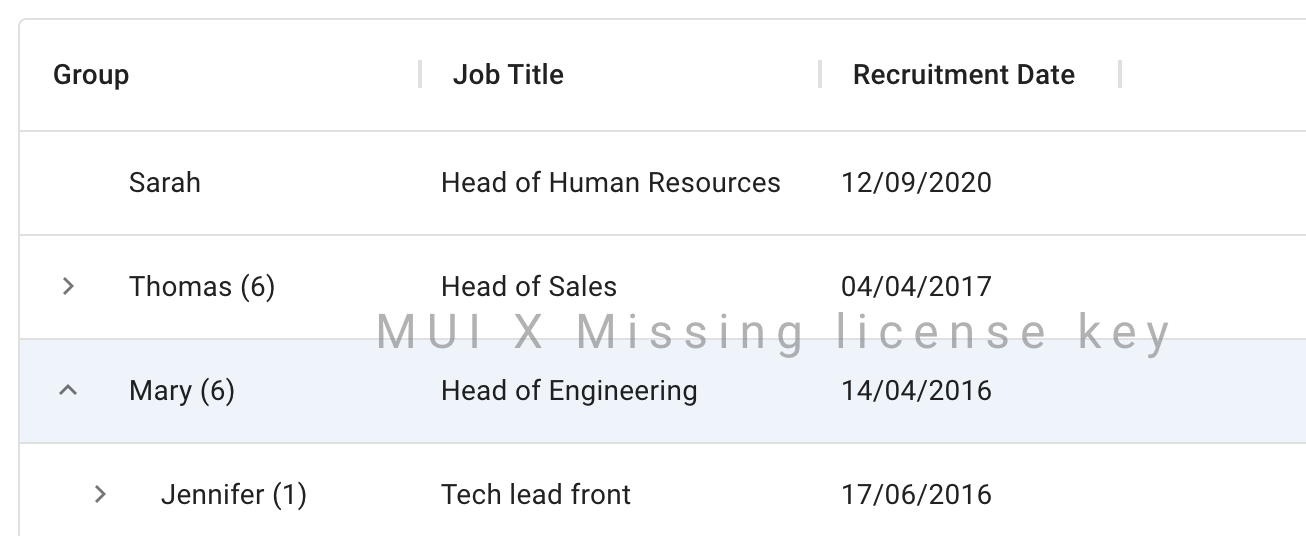
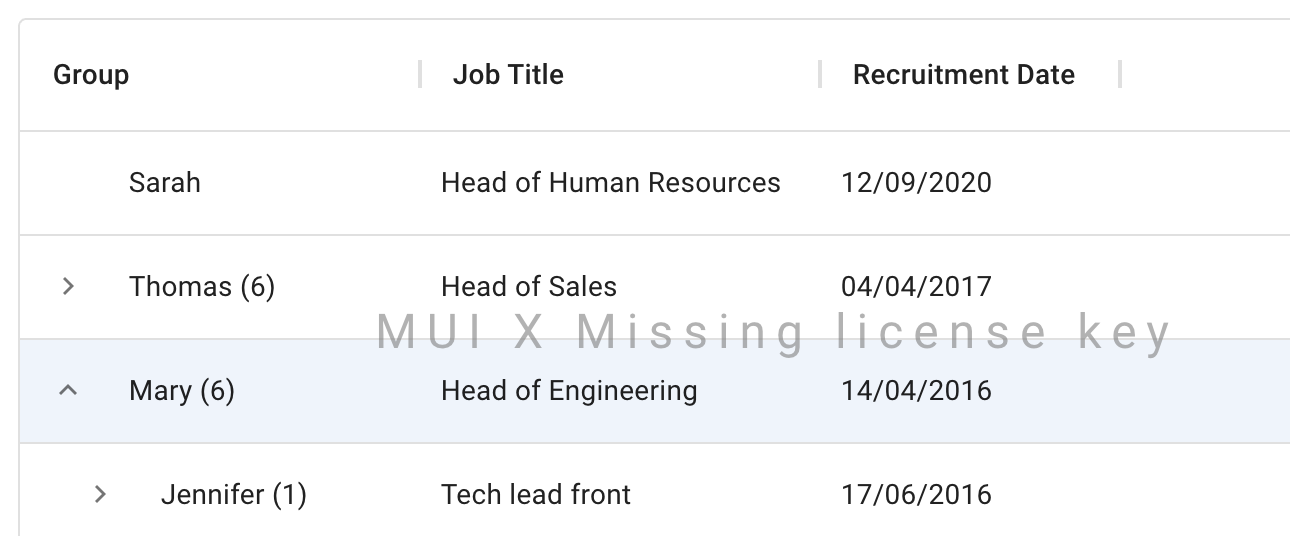
[docs] Stable layout between light and dark mode

diff --git a/docs/data/introduction/licensing/licensing.md b/docs/data/introduction/licensing/licensing.md
@@ -256,10 +256,10 @@ This error indicates that your license key is missing. You might not be allowed 
 The component will look something like this:
 
 <div class="only-light-mode">
-  <img src="/static/x/watermark-light.png" width="1306" height="536" style="width: 653px; margin-bottom: 2rem;" alt="" loading="lazy">
+  <img src="/static/x/watermark-light.png" width="1290" height="536" style="width: 645px; margin-bottom: 2rem;" alt="" loading="lazy">
 </div>
 <div class="only-dark-mode">
-  <img src="/static/x/watermark-dark.png" width="1290" height="548" style="width: 645px; margin-bottom: 2rem;" alt="" loading="lazy">
+  <img src="/static/x/watermark-dark.png" width="1290" height="536" style="width: 645px; margin-bottom: 2rem;" alt="" loading="lazy">
 </div>
 
 To solve the issue, you can check the [free trial conditions](#evaluation-trial-licenses), if you are eligible no actions are required.
